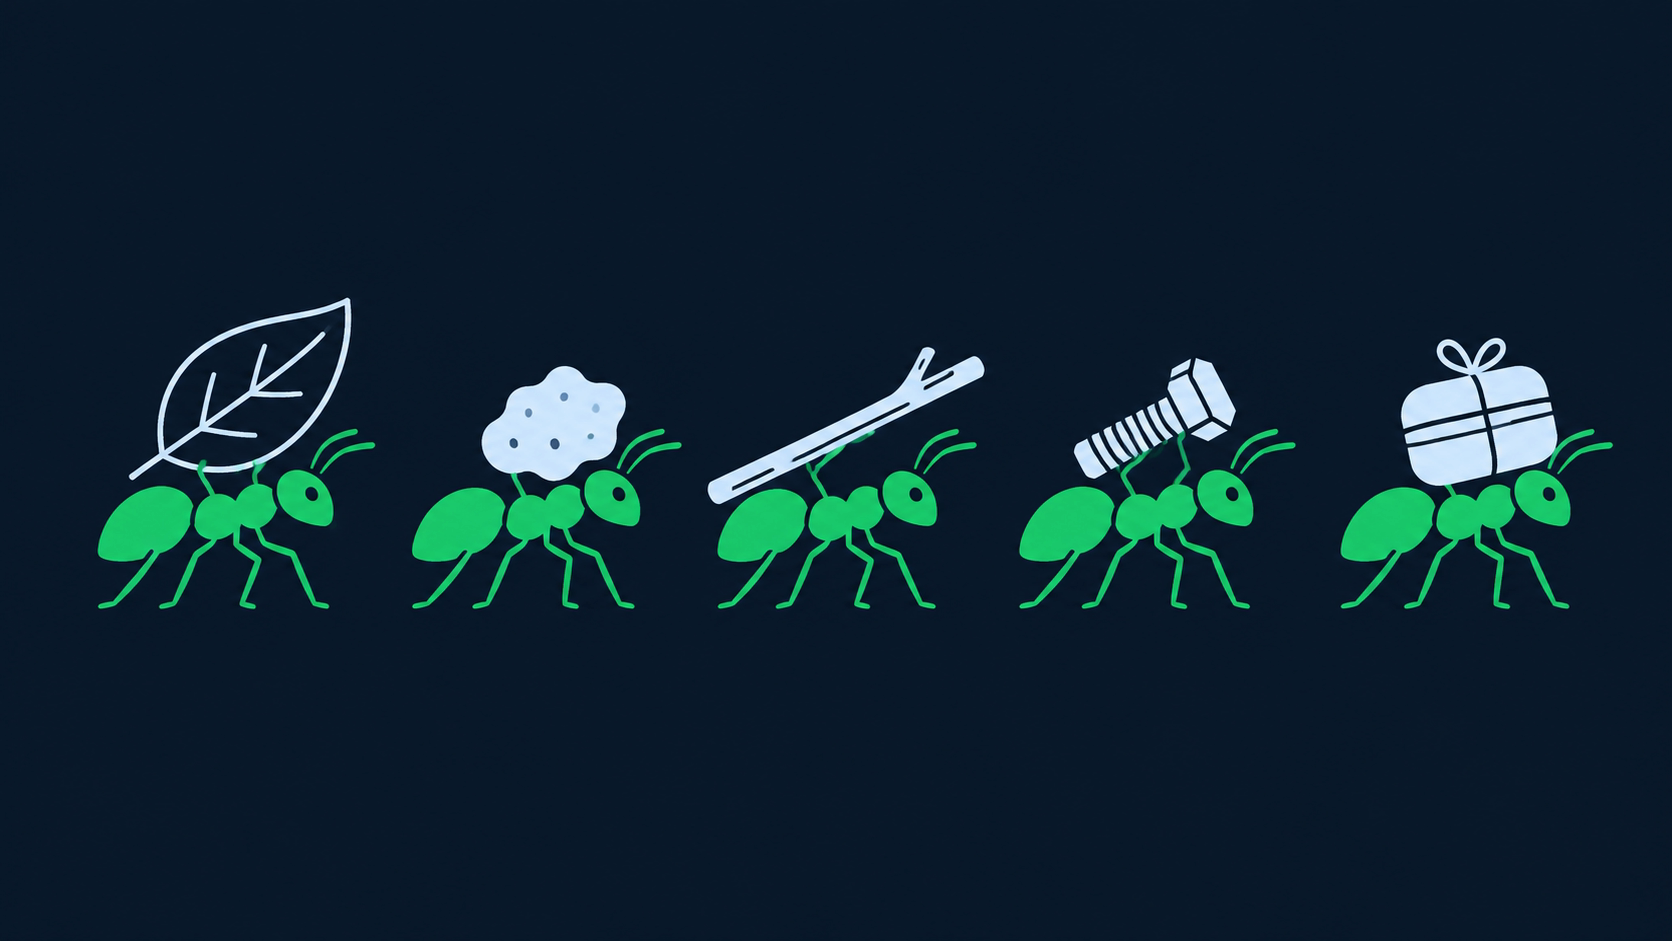
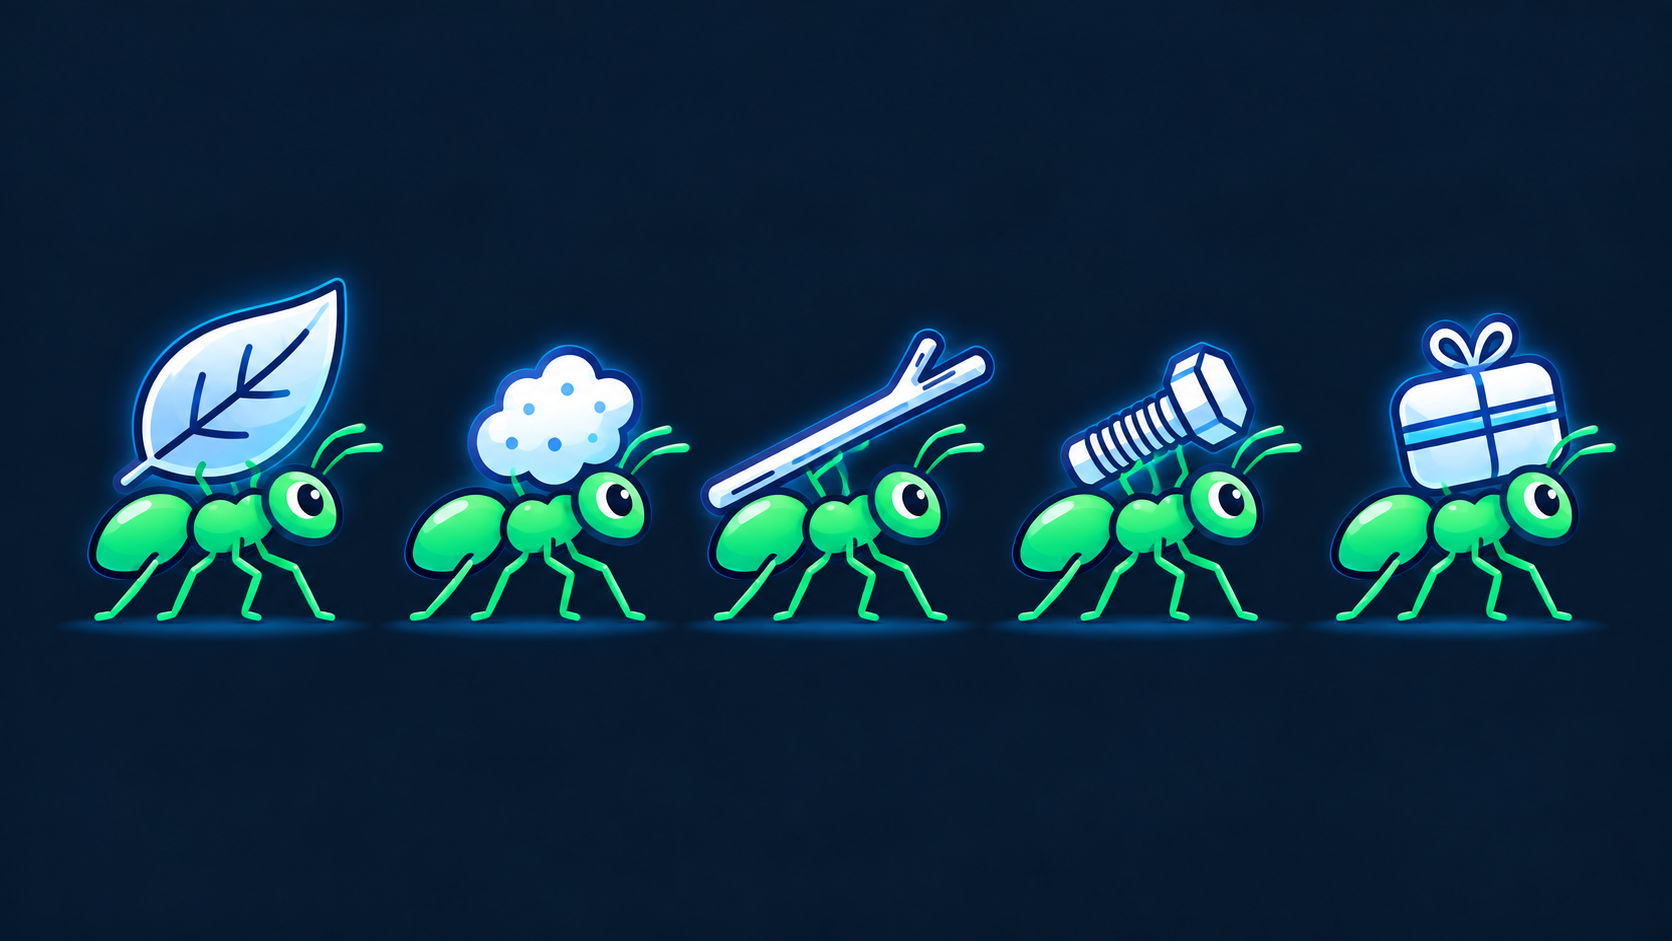
feat: refuerza contexto y reentrada del agente

Changed region(s): [[0.0311, 0.2774, 0.9641, 0.678]]

diff --git a/src/components/slides/Slide06Subagente.svelte b/src/components/slides/Slide06Subagente.svelte
@@ -5,10 +5,23 @@
   let slideElement: HTMLElement;
   onMount(() => { animateSlideEntrance(slideElement); });
 
-  const limits = [
-    'Un agente único acumula todo el contexto de la tarea, aunque solo una parte sea relevante en cada momento.',
-    'No puede trabajar dos frentes en paralelo sin mezclar sus razonamientos.',
-    'Un system prompt genérico rinde peor que uno especializado para cada tipo de sub-tarea.'
+  const contextBars = [
+    {
+      role: 'Agente principal',
+      amount: '180\u202f000 de 200\u202f000',
+      percentage: '90%',
+      value: 90,
+      tone: 'principal',
+      detail: 'Historial, exploración, herramientas y decisiones acumuladas.'
+    },
+    {
+      role: 'Sub-agente',
+      amount: '40\u202f000 de 200\u202f000',
+      percentage: '20%',
+      value: 20,
+      tone: 'subagent',
+      detail: 'Solo el contexto necesario para una misión concreta.'
+    }
   ];
 </script>
 
@@ -19,24 +32,71 @@
 
     <div class="intro-row">
       <p class="lead">Como una fila de hormigas: la misma especie, la misma fuerza base — pero cada una carga algo distinto porque la tarea de turno lo pide, no porque haya cinco tipos de hormiga.</p>
-      <div class="image-frame">
-        <img src={base + 'subagente-hormigas.png'} alt="Una fila de hormigas idénticas, cada una cargando un objeto distinto — la misma base, tareas especializadas" loading="lazy" />
+      <div class="image-frame image-pair">
+        <figure class="image-tile image-tile-roles">
+          <img src={base + 'subagente-hormigas.png'} alt="Una fila de hormigas idénticas, cada una cargando un objeto distinto — la misma base, tareas especializadas" loading="lazy" />
+          <figcaption>misma base · tareas distintas</figcaption>
+        </figure>
+        <figure class="image-tile image-tile-context">
+          <img src={base + 'subagente-contexto.png'} alt="Un agente principal rodeado de contexto saturado y un sub-agente con una misión acotada, unidos por un handoff breve" loading="lazy" />
+          <figcaption>contexto lleno · misión acotada</figcaption>
+        </figure>
       </div>
     </div>
 
+    <section class="context-compare" aria-labelledby="context-compare-title">
+      <div class="compare-heading">
+        <div>
+          <p class="section-kicker">Una ventana de 200\u202f000 tokens</p>
+          <h3 id="context-compare-title">Delegar mantiene <span>ligero</span> el hilo principal</h3>
+        </div>
+        <p class="compare-note">Escenario ilustrativo para visualizar el reparto de contexto, no una medición universal.</p>
+      </div>
+
+      <div class="context-grid">
+        {#each contextBars as bar}
+          <article class={`context-card ${bar.tone}`}>
+            <div class="context-card-head">
+              <span class="context-role">{bar.role}</span>
+              <span class="context-percent">{bar.percentage}</span>
+            </div>
+            <div
+              class="meter-track"
+              role="progressbar"
+              aria-label={`Contexto ocupado por ${bar.role}`}
+              aria-valuemin="0"
+              aria-valuemax="100"
+              aria-valuenow={bar.value}
+            >
+              <span class="meter-fill" style={`width: ${bar.value}%`}></span>
+            </div>
+            <div class="context-card-foot">
+              <strong>{bar.amount}</strong>
+              <span>{bar.detail}</span>
+            </div>
+          </article>
+        {/each}
+      </div>
+
+      <div class="handoff-line">
+        <span class="handoff-dot"></span>
+        <span>El principal recibe un resumen de 3–5 líneas, no los 140\u202f000 tokens de ruido intermedio.</span>
+      </div>
+    </section>
+
     <div class="two-col">
       <div class="col-a">
-        <h3 class="col-title col-title-a">Límites del agente único</h3>
-        <ul class="limit-list">
-          {#each limits as l}
-            <li>{l}</li>
-          {/each}
-        </ul>
+        <h3 class="col-title col-title-a">Misión del sub-agente</h3>
+        <div class="mission-box">
+          <span class="mission-label">Entrada acotada</span>
+          <strong>“Revisa este edge case y devuelve solo el hallazgo, la evidencia y la recomendación.”</strong>
+        </div>
+        <p class="mission-note">La tarea tiene un objetivo, una salida esperada y un contexto propio. El principal conserva la decisión final.</p>
       </div>
       <div class="col-b">
         <h3 class="col-title col-title-b">Cuándo compensa un sub-agente</h3>
         <p>Cuando la sub-tarea tiene un contexto propio que no necesita contaminar el hilo principal: una búsqueda exploratoria, una revisión de código, una investigación de una API externa.</p>
-        <div class="evidence-chip">Regla práctica: si el resultado de la sub-tarea cabe en un resumen de 3-5 líneas, delega. Si necesitas todo el razonamiento intermedio, no delegues.</div>
+        <div class="evidence-chip">Regla práctica: si el resultado cabe en un resumen de 3–5 líneas, delega. Si necesitas todo el razonamiento intermedio, mantén el trabajo en el hilo principal.</div>
       </div>
     </div>
   </div>
@@ -60,16 +120,58 @@
   .col-a, .col-b { display: flex; flex-direction: column; gap: var(--spacing-lg); }
   .col-b p { font-size: 0.9rem; color: var(--color-neutral-light); opacity: 0.7; line-height: 1.7; margin-bottom: 0; }
 
-  .limit-list { list-style: none; display: flex; flex-direction: column; gap: var(--spacing-md); margin: 0; padding: 0; }
-  .limit-list li { font-size: 0.9rem; color: var(--color-neutral-light); opacity: 0.7; line-height: 1.6; padding-left: var(--spacing-lg); position: relative; }
-  .limit-list li::before { content: '×'; position: absolute; left: 0; color: #f87171; font-weight: 800; }
+  .context-compare { display: flex; flex-direction: column; gap: var(--spacing-md); }
+  .compare-heading { display: flex; justify-content: space-between; align-items: end; gap: var(--spacing-xl); }
+  .section-kicker { font-family: var(--font-mono); font-size: 0.7rem; letter-spacing: 0.12em; text-transform: uppercase; color: var(--color-electric); margin-bottom: var(--spacing-xs); }
+  .compare-heading h3 { font-size: 1.1rem; color: var(--color-neutral-light); margin: 0; }
+  .compare-heading h3 span { color: #86efac; }
+  .compare-note { max-width: 320px; font-size: 0.7rem; line-height: 1.45; color: var(--color-neutral-light); opacity: 0.45; text-align: right; margin: 0; }
+
+  .context-grid { display: grid; grid-template-columns: 1fr 1fr; gap: var(--spacing-lg); }
+  .context-card { background: rgba(30, 58, 138, 0.12); border: 1px solid rgba(96, 165, 250, 0.16); border-radius: var(--radius-md); padding: var(--spacing-md) var(--spacing-lg); }
+  .context-card.principal { border-color: rgba(248, 113, 113, 0.28); }
+  .context-card.subagent { border-color: rgba(134, 239, 172, 0.3); }
+  .context-card-head, .context-card-foot { display: flex; justify-content: space-between; align-items: baseline; gap: var(--spacing-md); }
+  .context-role { font-family: var(--font-mono); font-size: 0.74rem; font-weight: 700; letter-spacing: 0.05em; color: var(--color-neutral-light); text-transform: uppercase; }
+  .context-percent { font-family: var(--font-mono); font-size: 1.1rem; font-weight: 800; }
+  .principal .context-percent { color: #fca5a5; }
+  .subagent .context-percent { color: #86efac; }
+  .meter-track { height: 12px; margin: var(--spacing-md) 0; overflow: hidden; border-radius: 999px; background: rgba(250, 249, 246, 0.1); }
+  .meter-fill { display: block; height: 100%; border-radius: inherit; transform-origin: left center; animation: meterIn 800ms ease-out both; }
+  .principal .meter-fill { background: linear-gradient(90deg, #f87171, #fb7185); }
+  .subagent .meter-fill { background: linear-gradient(90deg, #22c55e, #86efac); }
+  .context-card-foot { align-items: flex-start; flex-direction: column; gap: 3px; }
+  .context-card-foot strong { font-family: var(--font-mono); font-size: 0.86rem; color: var(--color-neutral-light); }
+  .context-card-foot span { font-size: 0.75rem; color: var(--color-neutral-light); opacity: 0.56; line-height: 1.45; }
+
+  .handoff-line { display: flex; align-items: center; gap: var(--spacing-sm); font-family: var(--font-mono); font-size: 0.7rem; color: #93c5fd; opacity: 0.8; }
+  .handoff-dot { width: 7px; height: 7px; border-radius: 50%; background: #60a5fa; box-shadow: 0 0 8px rgba(96, 165, 250, 0.75); flex-shrink: 0; }
+
+  .mission-box { display: flex; flex-direction: column; gap: var(--spacing-sm); background: rgba(134, 239, 172, 0.06); border: 1px solid rgba(134, 239, 172, 0.25); border-radius: var(--radius-sm); padding: var(--spacing-md); }
+  .mission-label { font-family: var(--font-mono); font-size: 0.68rem; font-weight: 700; letter-spacing: 0.1em; text-transform: uppercase; color: #86efac; }
+  .mission-box strong { font-size: 0.84rem; line-height: 1.5; color: var(--color-neutral-light); font-weight: 500; }
 
   .evidence-chip { background: rgba(96, 165, 250, 0.06); border: 1px solid rgba(96, 165, 250, 0.2); border-radius: var(--radius-sm); padding: var(--spacing-md); font-family: var(--font-mono); font-size: 0.78rem; color: var(--color-electric); opacity: 0.75; line-height: 1.5; }
 
   .intro-row { display: grid; grid-template-columns: 1.3fr 1fr; gap: var(--spacing-2xl); align-items: center; }
   .lead { font-size: 1rem; color: var(--color-neutral-light); opacity: 0.7; line-height: 1.7; margin-bottom: 0; }
   .image-frame { background: rgba(30, 58, 138, 0.15); border: 1px solid rgba(34, 197, 94, 0.25); border-radius: var(--radius-lg); padding: var(--spacing-md); }
-  .image-frame img { width: 100%; height: auto; display: block; border-radius: var(--radius-md); max-height: 220px; object-fit: contain; margin: 0 auto; }
+  .image-pair { display: grid; grid-template-columns: 0.75fr 1.25fr; gap: var(--spacing-sm); align-items: stretch; }
+  .image-tile { min-width: 0; margin: 0; padding: var(--spacing-xs); display: flex; flex-direction: column; justify-content: space-between; gap: var(--spacing-xs); background: rgba(10, 22, 40, 0.42); border: 1px solid rgba(96, 165, 250, 0.15); border-radius: var(--radius-md); }
+  .image-tile img { width: 100%; height: 126px; display: block; border-radius: var(--radius-sm); object-fit: contain; margin: 0 auto; }
+  .image-caption { font-family: var(--font-mono); font-size: 0.58rem; letter-spacing: 0.04em; text-transform: uppercase; color: var(--color-electric); opacity: 0.68; text-align: center; }
+  .image-tile-context { border-color: rgba(134, 239, 172, 0.25); }
+  .image-tile-context .image-caption { color: #86efac; }
 
-  @media (max-width: 900px) { .two-col, .intro-row { grid-template-columns: 1fr; } }
+  @keyframes meterIn { from { transform: scaleX(0); } to { transform: scaleX(1); } }
+
+  @media (max-width: 900px) {
+    .slide-content { padding-top: 2.5rem; gap: 1.1rem; }
+    .two-col, .intro-row, .context-grid { grid-template-columns: 1fr; }
+    .compare-heading { align-items: flex-start; flex-direction: column; gap: var(--spacing-sm); }
+    .compare-note { max-width: none; text-align: left; }
+    .image-tile img { height: 118px; }
+    .context-card { padding: 0.8rem 1rem; }
+    .context-compare { gap: 0.75rem; }
+  }
 </style>

diff --git a/src/components/slides/Slide12HarnessArnesMinimo.svelte b/src/components/slides/Slide12HarnessArnesMinimo.svelte
@@ -1,56 +1,102 @@
 <script lang="ts">
   import { onMount } from 'svelte';
   import { animateSlideEntrance } from '@/utils/animations';
+
   let slideElement: HTMLElement;
   onMount(() => { animateSlideEntrance(slideElement); });
 
-  const files = [
-    { name: 'AGENTS.md', desc: 'La constitución del sistema — qué hace, qué no toca, cómo se valida.' },
-    { name: 'init.sh', desc: 'Bootstrap reproducible del entorno de trabajo.' },
-    { name: 'featurelist.json', desc: 'El backlog en formato que el agente puede recorrer sin ambigüedad.' },
-    { name: 'progress/', desc: 'Estado externalizado — qué se hizo, qué falta, por sesión.' },
-    { name: 'leader / implementer / reviewer', desc: 'Roles fijos: quien planifica, quien ejecuta, quien verifica.' }
+  const checkpoints = [
+    {
+      number: '01',
+      question: '¿Dónde quedó?',
+      source: 'progress/',
+      description: 'Decisiones tomadas, evidencia reunida y bloqueos que siguen abiertos.'
+    },
+    {
+      number: '02',
+      question: '¿Qué sigue?',
+      source: 'featurelist.json',
+      description: 'La siguiente tarea, su prioridad y el criterio para darla por cerrada.'
+    },
+    {
+      number: '03',
+      question: '¿Con qué reglas?',
+      source: 'AGENTS.md  +  init.sh',
+      description: 'Límites del proyecto, entorno reproducible y verificaciones antes de entregar.'
+    }
   ];
 </script>
 
 <div class="swiper-slide" bind:this={slideElement}>
   <div class="slide-content">
     <div class="act-tag"><span class="tag-dot"></span><span>Acto III · Harness</span></div>
-    <h2 class="title">¿Qué escribes el <span class="hl">lunes</span>?</h2>
-    <p class="lead">No hace falta una plataforma. El arnés mínimo cabe en 5 piezas de texto plano — lo demás lo resuelve el agente contra ellas.</p>
+    <h2 class="title">Reentrar a un código ya <span class="hl">empezado</span></h2>
+    <p class="lead">Vuelves al repositorio varios días después. Antes de tocar una línea, el proyecto debe devolverte el estado de trabajo.</p>
 
-    <div class="files-grid">
-      {#each files as f}
-        <div class="file-card">
-          <span class="file-name">{f.name}</span>
-          <span class="file-desc">{f.desc}</span>
-        </div>
-      {/each}
+    <div class="reentry-flow" aria-label="Puntos de entrada para retomar un proyecto">
+      <div class="flow-intro">
+        <span class="flow-label">La reentrada</span>
+        <p>El contexto persistente evita reconstruir la historia desde el código y desde el chat anterior.</p>
+      </div>
+
+      <div class="checkpoint-list">
+        {#each checkpoints as checkpoint}
+          <div class="checkpoint">
+            <span class="checkpoint-number">{checkpoint.number}</span>
+            <div class="checkpoint-copy">
+              <h3>{checkpoint.question}</h3>
+              <p>{checkpoint.description}</p>
+            </div>
+            <code>{checkpoint.source}</code>
+          </div>
+        {/each}
+      </div>
     </div>
 
-    <div class="evidence-chip">La lección de la bitter lesson ya se aplica aquí: estas piezas no codifican el "cómo" paso a paso — solo el "qué" y los guardrails. El agente resuelve el cómo contra documentación viva.</div>
+    <div class="handoff-line">
+      <span>El estado queda en el proyecto.</span>
+      <p>La siguiente sesión empieza con un punto de partida compartido.</p>
+    </div>
   </div>
 </div>
 
 <style>
   .swiper-slide { width: 100%; min-height: 100vh; display: flex; align-items: flex-start; justify-content: center; background: var(--color-base-dark); }
-  .slide-content { max-width: 1100px; width: 100%; padding: var(--spacing-content); padding-top: 4rem; display: flex; flex-direction: column; gap: var(--spacing-xl); }
+  .slide-content { max-width: 1050px; width: 100%; padding: var(--spacing-content); padding-top: 4rem; display: flex; flex-direction: column; gap: var(--spacing-xl); }
 
   .act-tag { display: flex; align-items: center; gap: var(--spacing-sm); font-family: var(--font-mono); font-size: 0.78rem; font-weight: 700; letter-spacing: 0.12em; text-transform: uppercase; color: #fcd34d; }
   .tag-dot { width: 7px; height: 7px; border-radius: 50%; background: #f59e0b; box-shadow: 0 0 6px rgba(245, 158, 11, 0.6); }
 
   .title { font-size: clamp(1.8rem, 4vw, 3rem); font-weight: 900; color: var(--color-neutral-light); margin-bottom: 0; }
   .hl { background: linear-gradient(135deg, #f59e0b, #fcd34d); -webkit-background-clip: text; -webkit-text-fill-color: transparent; background-clip: text; }
+  .lead { max-width: 760px; margin-bottom: 0; color: var(--color-neutral-light); font-size: 1rem; line-height: 1.7; opacity: 0.72; }
 
-  .lead { font-size: 1rem; color: var(--color-neutral-light); opacity: 0.7; line-height: 1.7; max-width: 760px; margin-bottom: 0; }
+  .reentry-flow { display: grid; grid-template-columns: minmax(210px, 0.76fr) minmax(0, 1.7fr); gap: var(--spacing-2xl); align-items: stretch; padding: var(--spacing-xl); border: 1px solid rgba(245, 158, 11, 0.22); border-radius: var(--radius-lg); background: linear-gradient(110deg, rgba(245, 158, 11, 0.08), rgba(30, 58, 138, 0.10)); }
+  .flow-intro { display: flex; flex-direction: column; justify-content: center; gap: var(--spacing-md); padding-right: var(--spacing-xl); border-right: 1px solid rgba(245, 158, 11, 0.22); }
+  .flow-label { color: #fcd34d; font-family: var(--font-mono); font-size: 0.75rem; font-weight: 700; letter-spacing: 0.1em; text-transform: uppercase; }
+  .flow-intro p { margin: 0; color: var(--color-neutral-light); font-size: 0.98rem; line-height: 1.65; opacity: 0.76; }
 
-  .files-grid { display: grid; grid-template-columns: repeat(auto-fit, minmax(200px, 1fr)); gap: var(--spacing-lg); }
-  .file-card { background: rgba(30, 58, 138, 0.1); border: 1px solid rgba(245, 158, 11, 0.2); border-radius: var(--radius-md); padding: var(--spacing-lg); display: flex; flex-direction: column; gap: var(--spacing-sm); transition: border-color var(--transition-base), background var(--transition-base); }
-  .file-card:hover { border-color: rgba(245, 158, 11, 0.5); background: rgba(245, 158, 11, 0.05); }
-  .file-name { font-family: var(--font-mono); font-size: 0.85rem; font-weight: 700; color: #fcd34d; }
-  .file-desc { font-size: 0.82rem; color: var(--color-neutral-light); opacity: 0.65; line-height: 1.5; }
+  .checkpoint-list { display: flex; flex-direction: column; }
+  .checkpoint { display: grid; grid-template-columns: 48px minmax(0, 1fr) max-content; gap: var(--spacing-md); align-items: center; padding: var(--spacing-md) 0; border-bottom: 1px solid rgba(147, 197, 253, 0.14); }
+  .checkpoint:first-child { padding-top: 0; }
+  .checkpoint:last-child { padding-bottom: 0; border-bottom: 0; }
+  .checkpoint-number { color: rgba(252, 211, 77, 0.52); font-family: var(--font-mono); font-size: 0.78rem; font-weight: 700; letter-spacing: 0.04em; }
+  .checkpoint-copy h3 { margin: 0 0 0.25rem; color: var(--color-neutral-light); font-size: 1.03rem; font-weight: 800; }
+  .checkpoint-copy p { margin: 0; color: var(--color-neutral-light); font-size: 0.84rem; line-height: 1.5; opacity: 0.66; }
+  code { padding: 0.38rem 0.55rem; border: 1px solid rgba(96, 165, 250, 0.26); border-radius: 0.35rem; background: rgba(30, 58, 138, 0.27); color: var(--color-electric); font-family: var(--font-mono); font-size: 0.75rem; white-space: nowrap; }
 
-  .evidence-chip { background: rgba(96, 165, 250, 0.06); border: 1px solid rgba(96, 165, 250, 0.2); border-radius: var(--radius-sm); padding: var(--spacing-md) var(--spacing-lg); font-family: var(--font-mono); font-size: 0.8rem; color: var(--color-electric); opacity: 0.75; line-height: 1.55; }
+  .handoff-line { display: flex; align-items: baseline; gap: var(--spacing-md); padding: 0 var(--spacing-lg); }
+  .handoff-line span { color: #fcd34d; font-family: var(--font-mono); font-size: 0.84rem; font-weight: 700; }
+  .handoff-line p { margin: 0; color: var(--color-neutral-light); font-size: 0.9rem; line-height: 1.5; opacity: 0.66; }
 
-  @media (max-width: 700px) { .files-grid { grid-template-columns: 1fr; } }
+  @media (max-width: 780px) {
+    .reentry-flow { grid-template-columns: 1fr; gap: var(--spacing-lg); }
+    .flow-intro { padding: 0 0 var(--spacing-lg); border-right: 0; border-bottom: 1px solid rgba(245, 158, 11, 0.22); }
+    .handoff-line { flex-direction: column; gap: var(--spacing-xs); padding: 0; }
+  }
+
+  @media (max-width: 560px) {
+    .checkpoint { grid-template-columns: 34px minmax(0, 1fr); }
+    code { grid-column: 2; justify-self: start; }
+  }
 </style>

diff --git a/src/components/Navigation.svelte b/src/components/Navigation.svelte
@@ -47,7 +47,7 @@
     'patron-creator-verifier': 'El agente no detecta sus errores',
     'patron-hitl-hotl': 'Supervisar sin microgestionar',
     'harness-ecuacion': 'Acto III · Harness > Modelo',
-    'harness-arnes-minimo': 'El arnés mínimo',
+    'harness-arnes-minimo': 'Reentrar al código',
     'sdd-bucle': 'SDD cierra el loop hoy',
     'horizonte-oneshot': 'Acto IV · El horizonte one-shot',
     'horizonte-oracle': 'El oracle de mantenibilidad',
